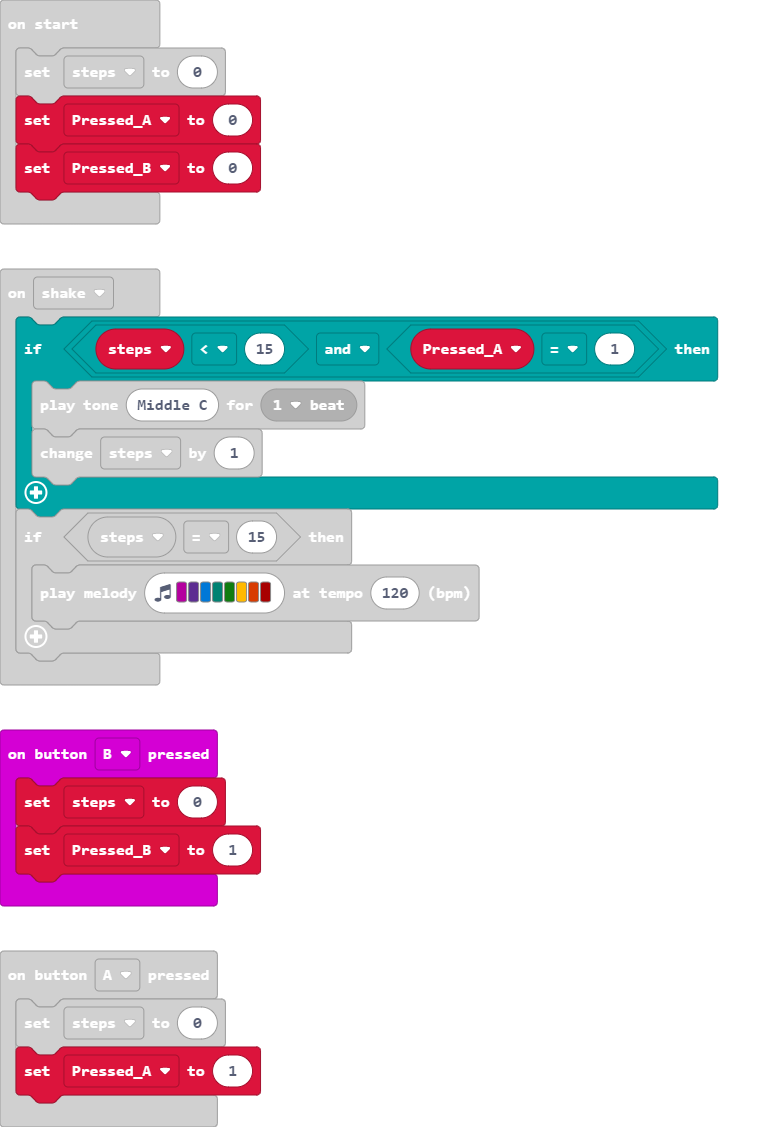
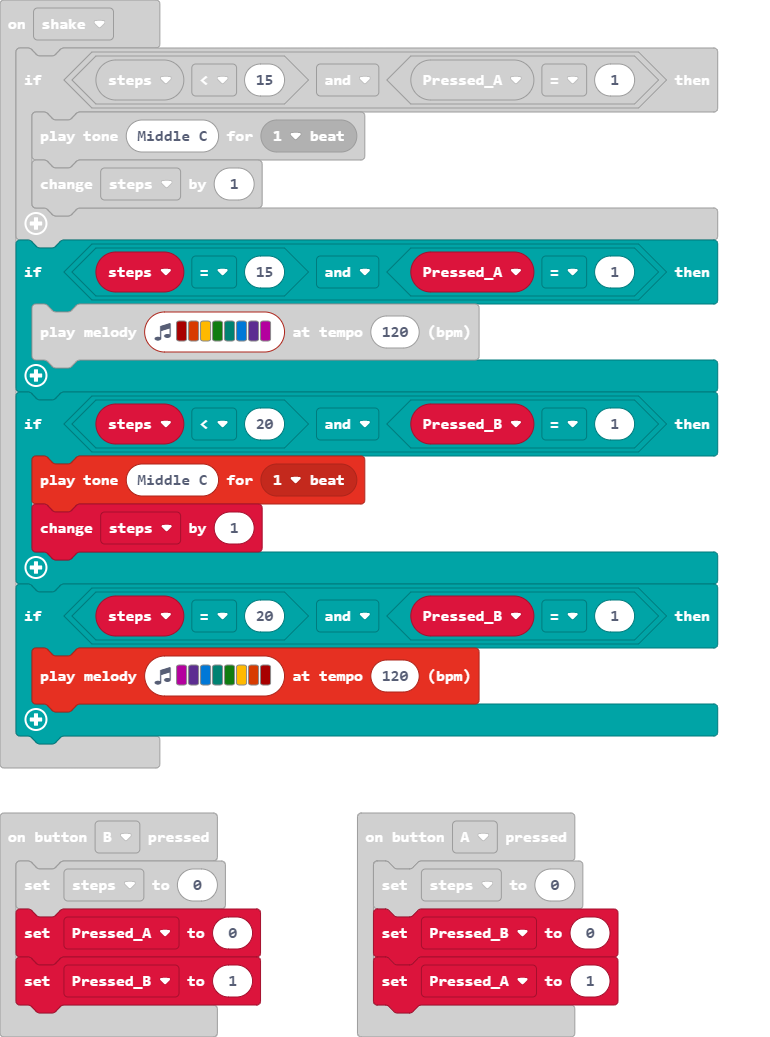
Update main.blocks, main.ts

diff --git a/main.ts b/main.ts
@@ -1,9 +1,11 @@
 input.onButtonPressed(Button.A, function () {
     steps = 0
+    Pressed_B = 0
     Pressed_A = 1
 })
 input.onButtonPressed(Button.B, function () {
     steps = 0
+    Pressed_A = 0
     Pressed_B = 1
 })
 input.onGesture(Gesture.Shake, function () {
@@ -11,7 +13,14 @@ input.onGesture(Gesture.Shake, function () {
         music.playTone(262, music.beat(BeatFraction.Whole))
         steps += 1
     }
-    if (steps == 15) {
+    if (steps == 15 && Pressed_A == 1) {
+        music.playMelody("C5 B A G F E D C ", 120)
+    }
+    if (steps < 20 && Pressed_B == 1) {
+        music.playTone(262, music.beat(BeatFraction.Whole))
+        steps += 1
+    }
+    if (steps == 20 && Pressed_B == 1) {
         music.playMelody("C D E F G A B C5 ", 120)
     }
 })
